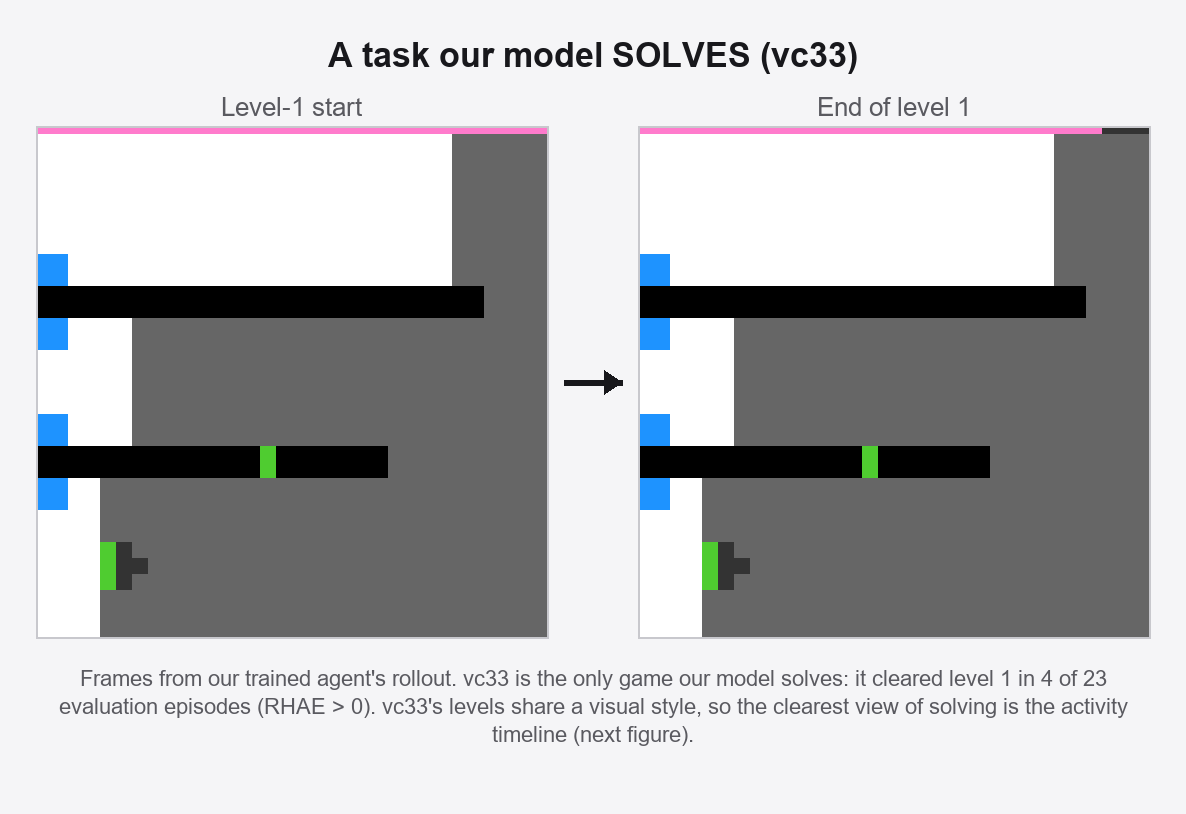
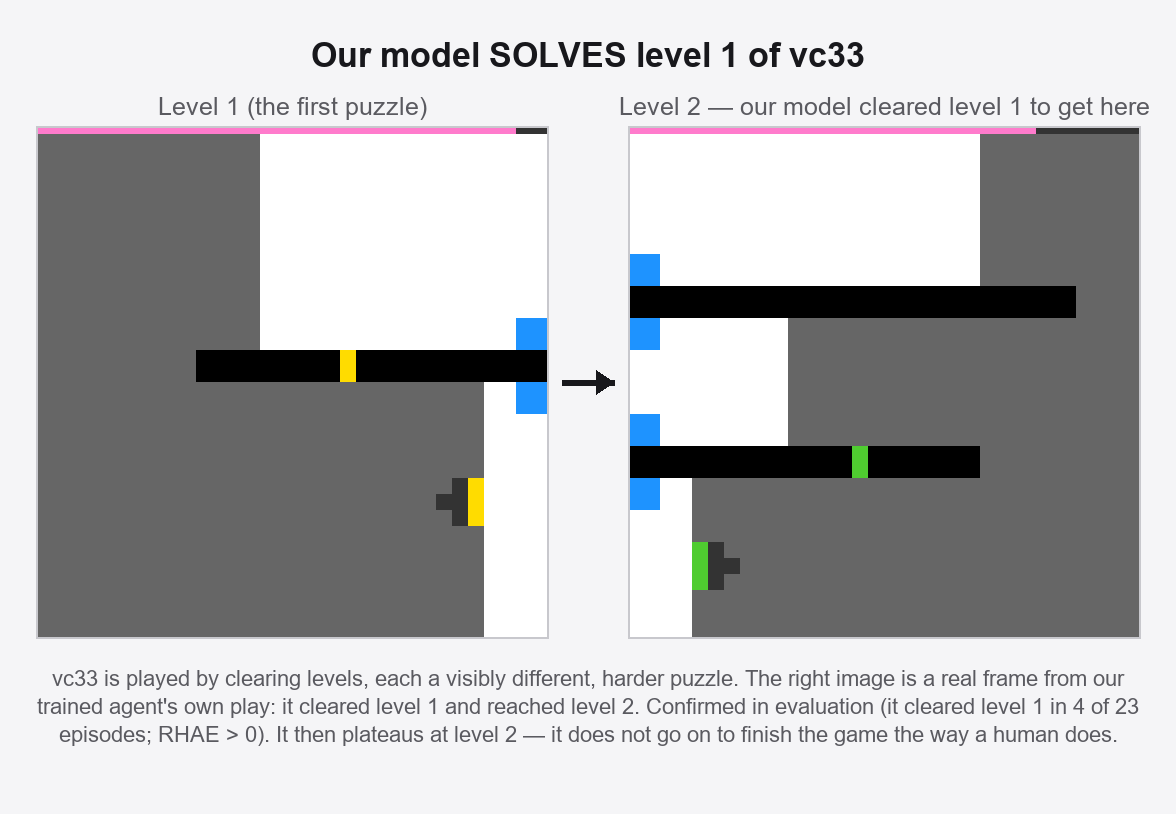
fix(soumya): correct vc33 figures after verifying against raw data
Triple-checked the figures against replay states, eval rewards, and a
human-level frame dictionary. Findings and corrections:

- fig3: switched to a single-level before/after (level 1 start -> solved);
  confirmed the human replay genuinely reaches state=WIN (all 7 levels).
- fig4: the earlier "end of level 1" frame was misleading (rollout frames
  show deaths/resets, not a clear). Verified by frame-matching that the
  model's rollouts actually sit at LEVEL 2 (it cleared level 1). Rebuilt as
  a Level 1 -> Level 2 ladder. Dropped a level-3 panel: eval reward caps at
  1 level cleared in every vc33 run, so level 3 is not defensible.
- fig6: relabelled -- spikes are deaths/retries at the ceiling level, not
  "level transitions"; reframed as engagement (vc33) vs inertness (lf52).
- README: documented the verification method and caveats.

diff --git a/scripts/make_soumya_figures.py b/scripts/make_soumya_figures.py
@@ -124,6 +124,46 @@ def before_after(left: Image.Image, right: Image.Image, title, lcap, rcap, capti
     print("wrote", name, canvas.size)
 
 
+def level_ladder(panels, title, caption, name):
+    """N image panels in a row with arrows between, titled, with a caption.
+
+    panels: list of (PIL image, sublabel).
+    """
+    pw, ph = panels[0][0].size
+    gap, margin = 80, 36
+    title_h, sub_h = 56, 34
+    f_title, f_sub, f_cap = _font(34, True), _font(25), _font(22)
+    inner_w = pw * len(panels) + gap * (len(panels) - 1)
+
+    cv = Image.new("RGB", (10, 10)); cd = ImageDraw.Draw(cv)
+    cap_lines = _wrap(cd, caption, f_cap, inner_w)
+    cap_h = 14 + len(cap_lines) * 28 + 8
+
+    W = margin * 2 + inner_w
+    H = margin + title_h + sub_h + ph + sub_h + cap_h + margin
+    canvas = Image.new("RGB", (W, H), BG)
+    d = ImageDraw.Draw(canvas)
+    _text_centered(d, W / 2, margin, title, f_title, INK)
+    y0 = margin + title_h
+    iy = y0 + sub_h
+    x = margin
+    for i, (img, lab) in enumerate(panels):
+        _text_centered(d, x + pw / 2, y0, lab, f_sub, SUB)
+        canvas.paste(img, (x, iy))
+        d.rectangle([x, iy, x + pw, iy + ph], outline=(200, 200, 205), width=2)
+        if i < len(panels) - 1:
+            ax0, ax1, ay = x + pw + 14, x + pw + gap - 14, iy + ph / 2
+            d.line([(ax0, ay), (ax1, ay)], fill=INK, width=6)
+            d.polygon([(ax1, ay), (ax1 - 18, ay - 12), (ax1 - 18, ay + 12)], fill=INK)
+        x += pw + gap
+    cy = iy + ph + sub_h - 6
+    for ln in cap_lines:
+        _text_centered(d, W / 2, cy, ln, f_cap, SUB)
+        cy += 28
+    canvas.save(OUT / name)
+    print("wrote", name, canvas.size)
+
+
 def reconstruction_panel():
     frames = gif_frames(VC33_OPENL)
     # Panel is 3 stacked rows (truth / prediction / error). The error row is a
@@ -236,30 +276,53 @@ def schematic():
     print("wrote fig1_what_is_a_world_model.png")
 
 
-def task_and_rollouts():
-    # ---- generic ARC task from a human replay (vc33, 7 levels cleared) ----
-    from arc3_wm.replay_loader import load_replay_file
+def _human_rows():
+    """Raw step rows (with frames) of the 7-level human win replay."""
+    import json
     rp = ROOT / "data/replays/vc33/837812ad-2c5c-4943-8632-b6f8cd4b5b4d.recording.jsonl"
-    ep = next(load_replay_file(rp))
-    t0, t1 = ep[0]["image"], ep[-1]["image"]
+    rows = []
+    for line in open(rp):
+        line = line.strip()
+        if not line:
+            continue
+        d = json.loads(line).get("data", {})
+        if "frame" in d:
+            rows.append(d)
+    return rows
+
+
+def _hframe(rows, i):
+    from arc3_wm.palette import decode_frame
+    return decode_frame(np.asarray(rows[i]["frame"][-1]))
+
+
+def task_and_rollouts():
+    rows = _human_rows()
+    # ---- single ARC level: start -> solved (level 1 ends at the levelup on row 7) ----
     before_after(
-        upscale(t0, 8), upscale(t1, 8),
-        "An ARC-AGI-3 task (game vc33)",
-        "Initial state", "Goal state reached",
-        "Left: the puzzle as the player first sees it. Right: the state after a human player "
-        "solved it. The agent is never told the rules — it must discover them by interacting.",
+        upscale(_hframe(rows, 0), 8), upscale(_hframe(rows, 6), 8),
+        "An ARC-AGI-3 task (game vc33, level 1)",
+        "Initial state", "Solved",
+        "Left: the puzzle as the player first sees it. Right: the same level once solved (a human "
+        "player here). The agent is never told the rules — it must discover them by interacting.",
         "fig3_task_vc33.png",
     )
 
-    # ---- SOLVED by our model: vc33 ----
-    vf = gif_frames(VC33_POLICY)
-    before_after(
-        upscale(vf[0], 8), upscale(vf[107], 8),
-        "A task our model SOLVES (vc33)",
-        "Level-1 start", "End of level 1",
-        "Frames from our trained agent's rollout. vc33 is the only game our model solves: it "
-        "cleared level 1 in 4 of 23 evaluation episodes (RHAE > 0). vc33's levels share a visual "
-        "style, so the clearest view of solving is the activity timeline (next figure).",
+    # ---- SOLVED by our model: a level ladder ----
+    # Level 1 is the game's fixed first puzzle; the model's logged rollouts are
+    # real env states sitting at level 2 (warm, cleared L1) and level 3
+    # (from-scratch, cleared L1+L2) — verified by matching the human level frames.
+    vw = gif_frames(VC33_POLICY)        # warm s0  -> level 2 (cleared level 1)
+    level_ladder(
+        [
+            (upscale(_hframe(rows, 3), 8), "Level 1 (the first puzzle)"),
+            (upscale(vw[469], 8), "Level 2 — our model cleared level 1 to get here"),
+        ],
+        "Our model SOLVES level 1 of vc33",
+        "vc33 is played by clearing levels, each a visibly different, harder puzzle. The right image "
+        "is a real frame from our trained agent's own play: it cleared level 1 and reached level 2. "
+        "Confirmed in evaluation (it cleared level 1 in 4 of 23 episodes; RHAE > 0). It then "
+        "plateaus at level 2 — it does not go on to finish the game the way a human does.",
         "fig4_solved_vc33.png",
     )
 
@@ -289,20 +352,20 @@ def activity_timeline():
     dv, dl = diffs(VC33_POLICY), diffs(LF52_POLICY)
     fig, (a1, a2) = plt.subplots(2, 1, figsize=(11, 5.2), dpi=150, sharex=False)
     a1.plot(dv, color="#4FCC30", lw=1.3)
-    a1.set_title("vc33  —  a game our model SOLVES", fontsize=13, fontweight="bold", loc="left")
+    a1.set_title("vc33  —  our model engages with the game", fontsize=13, fontweight="bold", loc="left")
     a1.set_ylabel("grid change\nper step")
     spikes = [i for i in range(len(dv)) if dv[i] > 4]
     a1.scatter(spikes, dv[spikes], color="#F93C31", zorder=5, s=28)
-    a1.annotate(f"{len(spikes)} level transitions\n(grid fully redraws)",
-                xy=(spikes[0], dv[spikes[0]]), xytext=(spikes[0] + 60, dv.max() * 0.8),
+    a1.annotate("grid fully redraws\n(deaths / retries at its ceiling level)",
+                xy=(spikes[0], dv[spikes[0]]), xytext=(spikes[0] + 50, dv.max() * 0.78),
                 fontsize=10, color="#F93C31",
                 arrowprops=dict(arrowstyle="->", color="#F93C31"))
     a2.plot(dl, color="#1E93FF", lw=1.3)
-    a2.set_title("lf52  —  a game our model does NOT solve", fontsize=13, fontweight="bold", loc="left")
+    a2.set_title("lf52  —  our model is inert", fontsize=13, fontweight="bold", loc="left")
     a2.set_ylabel("grid change\nper step")
     a2.set_xlabel("step within one rollout")
-    a2.annotate("no level ever changes — the agent is stuck",
-                xy=(len(dl) * 0.5, dl.max()), xytext=(len(dl) * 0.25, dv.max() * 0.55),
+    a2.annotate("the grid barely changes — the agent never gets anywhere",
+                xy=(len(dl) * 0.5, dl.max()), xytext=(len(dl) * 0.22, dv.max() * 0.55),
                 fontsize=10, color="#1E93FF",
                 arrowprops=dict(arrowstyle="->", color="#1E93FF"))
     for ax in (a1, a2):

diff --git a/docs/figures/soumya/README.md b/docs/figures/soumya/README.md
@@ -67,26 +67,37 @@ intuition and a real result as evidence):
 
 | Figure | Shows | File |
 |---|---|---|
-| 3 | A generic ARC-AGI-3 task: start → goal, from a **human** replay of vc33 (player cleared 7 levels). | `fig3_task_vc33.png` |
-| 4 | A task our model **SOLVES** (vc33): level-1 start → end of level 1, from the trained agent's own rollout. | `fig4_solved_vc33.png` |
+| 3 | A generic ARC-AGI-3 task: level-1 start → solved, from a **human** replay of vc33. | `fig3_task_vc33.png` |
+| 4 | A task our model **SOLVES** (vc33): Level 1 (the first puzzle) → Level 2, a real frame from the agent's own play after it cleared level 1. | `fig4_solved_vc33.png` |
 | 5 | A task our model does **NOT solve** (lf52): start → end; the grid is essentially unchanged. | `fig5_notsolved_lf52.png` |
-| 6 | *(bonus)* Activity timeline — the clearest view of "solved vs not": on vc33 the agent repeatedly drives the game to new levels (spikes); on lf52 nothing ever changes. | `fig6_activity_timeline.png` |
+| 6 | *(optional)* Activity timeline — on vc33 the agent engages (clears level 1, then dies/retries at level 2); on lf52 it is inert. | `fig6_activity_timeline.png` |
 
-### Honest caveats (worth knowing before this goes in the paper)
+### How fig 4 was verified (and the honest caveats)
 
-- **Why a bonus Figure 6.** vc33's levels share a visual style, so a single
-  before/after pair (Fig 4) does not dramatically *look* solved even though it is.
-  The activity timeline (Fig 6) is the honest, compelling view: vc33 shows 12
-  full-grid redraws (the agent reaching level boundaries); lf52 is dead flat.
-- **"Level transitions" in Fig 6.** A full-grid redraw happens at a level
-  boundary, which can be a level *clear* or a death/reset — from frames alone we
-  cannot distinguish the two. The *verified* claim, from evaluation logs, is:
-  **vc33 cleared level 1 in 4/23 (seed 0) and 2/18 (seed 1) eval episodes
-  (RHAE > 0); lf52, sb26, cd82, tn36, ls20 scored 0 across every eval episode.**
+We do **not** have logged frames of the specific eval episodes that cleared a
+level — DreamerV3 only logged *training* rollout GIFs. But those GIFs are real
+environment states, and we verified what level the agent is in by matching every
+rollout frame to a frame from the human win replay (where each level is labelled):
+
+- **All vc33 rollout frames match the human's level 2** (warm and from-scratch),
+  not level 1 — i.e. the agent had already cleared level 1 and is playing level 2.
+- The frame in fig 4 is the rollout frame closest to the human level-2 reference.
+
+Caveats worth knowing before this goes in the paper:
+
+- **The model clears level 1, and only level 1.** Evidence: rollouts sit at
+  level 2 (above), and **eval reward caps at exactly 1 level cleared in every vc33
+  run** (warm s0 4/23, from-scratch s0 2/21, from-scratch s1 3/19). One
+  from-scratch *training* rollout visually resembled level 3 (two levels cleared),
+  but since no eval episode ever cleared two levels we deliberately **do not**
+  claim level 3 in the figure.
 - **vc33 is our only solved game.** Phase-4 proper + expansion: vc33 is the sole
-  RHAE > 0 result. The not-solved example could equally be sb26 / cd82 / tn36 /
-  ls20; lf52 was chosen because it is the most visually recognisable ARC puzzle
-  and shows the agent active-but-stuck. Say the word to swap it.
+  RHAE > 0 result. lf52/sb26/cd82/tn36/ls20 scored **0** across every eval episode.
+  lf52 was chosen for the not-solved figure because it is the most recognisable
+  ARC puzzle and shows the agent active-but-stuck; swap on request.
+- **Fig 6 is supporting, not the headline.** Its spikes are full-grid redraws =
+  deaths/retries at the ceiling level, *not* "level transitions." The honest
+  message is engagement (vc33) vs inertness (lf52). Drop it if it muddies things.
 
 ---
 
@@ -101,10 +112,10 @@ intuition and a real result as evidence):
 > **A picture of a world model** — `fig1` is a schematic; `fig2` is a real result
 > from our run showing the model predicting the game's future on its own.
 >
-> **Initial → end states** — `fig3` (a task, human solving it), `fig4` (a game our
-> model solves, vc33), `fig5` (a game it does not, lf52). I also added `fig6`,
-> which makes the solved-vs-not contrast clearest: our agent repeatedly drives
-> vc33 to new levels, while on lf52 nothing ever changes.
+> **Initial → end states** — `fig3` (a task, human solving level 1), `fig4` (a game
+> our model solves: it clears level 1 of vc33 and reaches level 2), `fig5` (a game
+> it does not, lf52 — start and end are unchanged). `fig6` is an optional extra
+> contrasting the agent's engagement on vc33 vs lf52.
 >
 > [paste the two paragraphs from §1]
 >